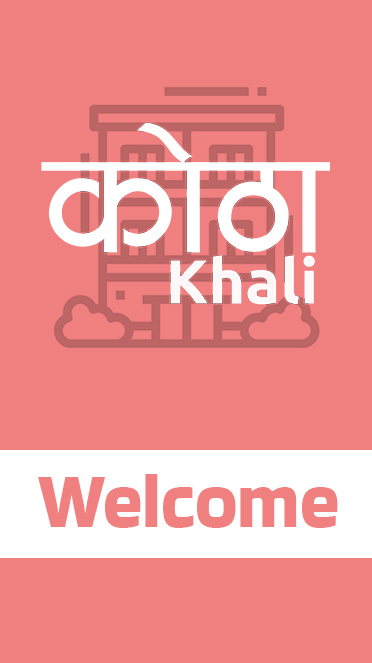
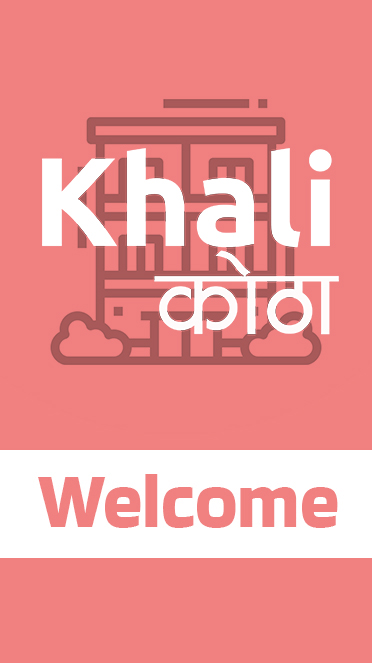
Some Minor Changes

Changed region(s): [[0.0887, 0.1207, 0.9167, 0.5732]]

diff --git a/src/Body/Body.js b/src/Body/Body.js
@@ -1,20 +1,18 @@
 import {Component} from "react";
 import {Container, Row, Col } from 'react-bootstrap'
 import {Route} from 'react-router-dom'
-import Signup from './Signup'
+import Register from './Signup'
 import Login from './Login'
 import Home from './Home'
-import Profile from './Profile'
+import Admin from './Admin'
 import AddAd from './AddAd'
+import ViewAd from './ViewAd'
 import UpdateAd from './UpdateAd'
+import UpdateDetails from './UpdateDetails'
 import Terms from './Terms'
 import Rules from './AdRule'
+import Profile from './Profile'
 import Contact from './Contactus'
-import ViewAd from './ViewAd'
-
-
-
-
 
 class Body extends Component{
     render() {
@@ -22,16 +20,18 @@ class Body extends Component{
             <Container>
                 <Row>
                     <Col>
-                        <Route path='/signup' exact component={Signup}/>
+                        <Route path='/admin' exact component={Admin}/>
+                        <Route path='/signup' exact component={Register}/>
                         <Route path='/login' exact component={Login}/>
                         <Route path='/' exact component={Home}/>
-                        <Route path='/profile' exact component={Profile}/>
                         <Route path='/addad' exact component={AddAd}/>
+                        <Route path='/ad/:id' exact component={ViewAd}/>
                         <Route path='/updatead/:id' exact component={UpdateAd}/>
+                        <Route path='/updatedetail/:id' exact component={UpdateDetails}/>
+                        <Route path='/profile' exact component={Profile}/>
                         <Route path='/terms' exact component={Terms}/>
                         <Route path='/rules' exact component={Rules}/>
                         <Route path='/contactus' exact component={Contact}/>
-                        <Route path='/ad/:id' exact component={ViewAd}/>
                     </Col>
                 </Row>
             </Container>

diff --git a/src/Body/UpdateDetails.js b/src/Body/UpdateDetails.js
@@ -83,17 +83,17 @@ class UpdateDetails extends Component {
                           onChange={this.sendData} />
                       </div>
                       <div class="col-md-12 col-lg-10 col-12">
-                        <label for="first-name">Mobilre</label>
-                        <input type="text" class="form-control" id="first-name"
+                        <label for="first-name">Mobile</label>
+                        <input type="text" class="form-control" id="mobile"
                           name="mobile"
                           value={this.state.mobile}
-                          onChange={this.sendAdData} />
+                          onChange={this.sendData} />
                       </div>
                     </div>
                     <div class="row justify-content-end mb-5">
                       <div class="col-lg-4 col-auto ">
                         <button type="button" class="btn btn-primary btn-block" onClick={this.updatehandler}>
-                          <small class="font-weight-bold">Update Room</small>
+                          <small class="font-weight-bold">Update Details</small>
                         </button>
                       </div>
                     </div>

diff --git a/src/Body/Terms.js b/src/Body/Terms.js
@@ -7,9 +7,9 @@ class Terms extends Component {
                 <div className="container">
                     <header className="jumbotron my-4">
                         <a className="logo" href="/">
-                            <img src={"./LogoBlack.png"} width="300" height="250" alt="logo" className="rounded mx-auto d-block" />
+                            <img src={"./LogoBlack.png"} width="300" height="300" alt="logo" className="rounded mx-auto d-block" />
                         </a>
-                        <b className="lead"><h1><b>Kotha Khali</b></h1><h2><b><u>AGREEMENT TO TERMS</u></b></h2></b>
+                        <b className="lead"><h1><b>Khali Kotha</b></h1><h2><b><u>AGREEMENT TO TERMS</u></b></h2></b>
 
                         <h4><b> <u>Last Updated: March 5, 2021</u></b></h4>
 
@@ -196,9 +196,9 @@ You shall not:
 
 In order to resolve a complaint regarding the Site or to receive further information regarding use of the Site, please contact us at: <br />
 
-Kotha Khali<br />
+Khali Kotha<br />
 Kathmandu, Nepal<br />
-kothakhali@gmail.com<br />
+khalikotha@gmail.com<br />
 
 
 

diff --git a/src/Body/Contactus.js b/src/Body/Contactus.js
@@ -14,7 +14,7 @@ class Contact extends Component {
                                     <p>Koteshwor-32,Kathmandu</p>
                                 </div>
                                 <div class="social-information"> <i class="fa fa-envelope-o"></i>
-                                    <p>kothakhali@gmail.com</p>
+                                    <p>khalikotha@gmail.com</p>
                                 </div>
                                 <div class="social-information"> <i class="fa fa-mobile-phone"></i>
                                     <p>+977-9861320771 </p>
